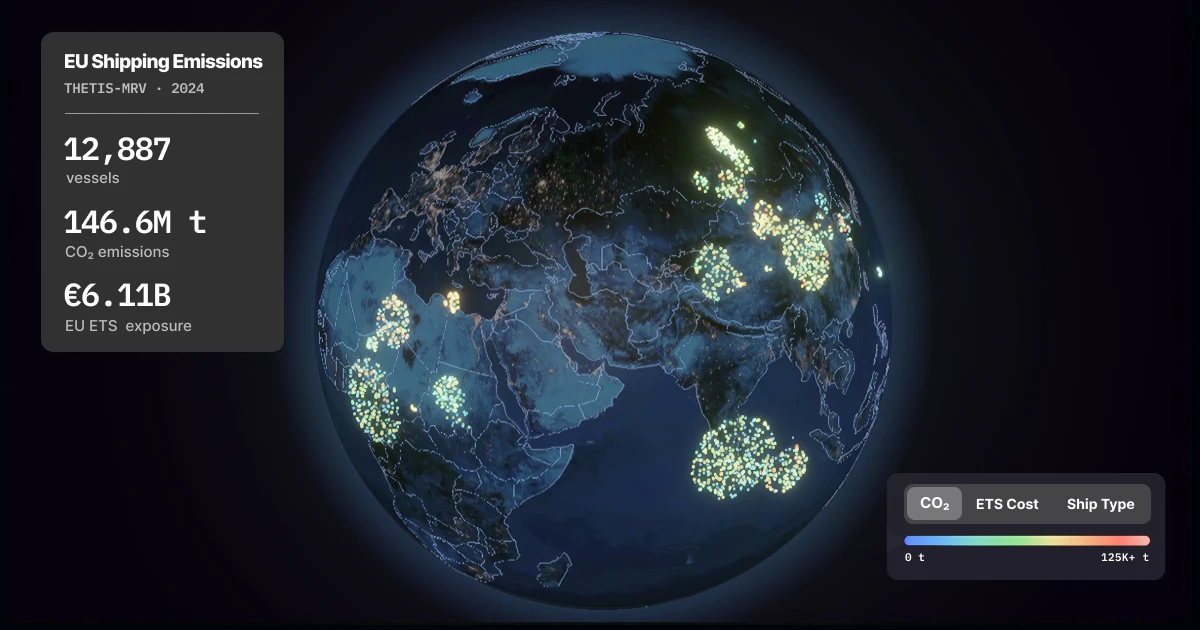
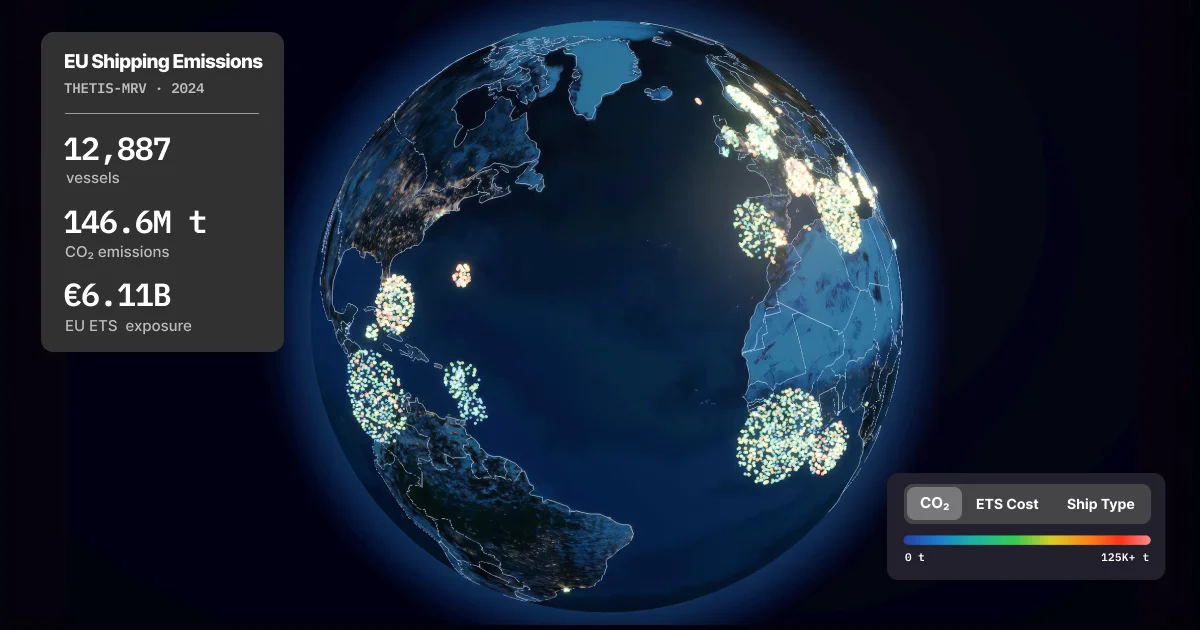
feat: brighter country borders, update OG image

Changed region(s): [[0.2467, 0.0, 0.8017, 0.9952], [0.74, 0.8444, 0.9558, 0.8746], [0.5858, 0.8746, 0.6475, 0.9349]]

diff --git a/components/globe/GlobeCore.tsx b/components/globe/GlobeCore.tsx
@@ -29,7 +29,7 @@ export function GlobeCore() {
         g.polygonsData(countries.features)
           .polygonCapColor(() => 'rgba(0,0,0,0)')
           .polygonSideColor(() => 'rgba(0,0,0,0)')
-          .polygonStrokeColor(() => 'rgba(100, 140, 200, 0.25)')
+          .polygonStrokeColor(() => 'rgba(140, 180, 220, 0.4)')
           .polygonAltitude(0.001)
       })
 
